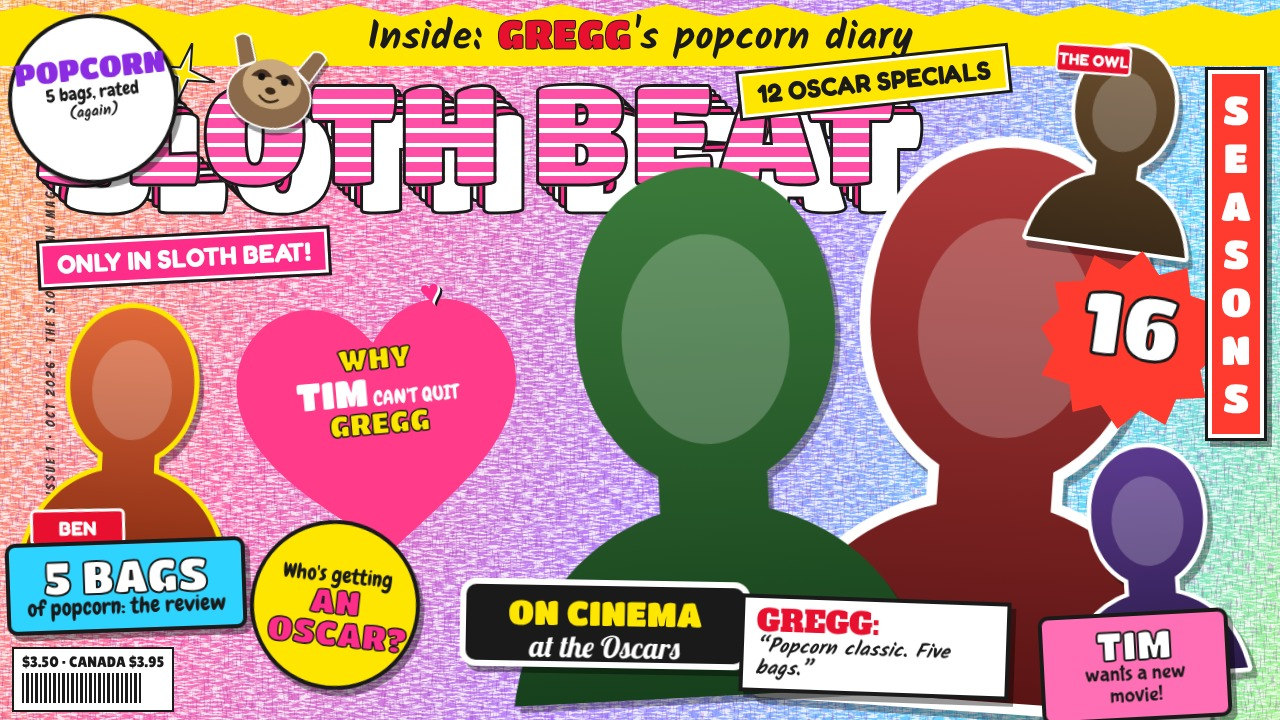
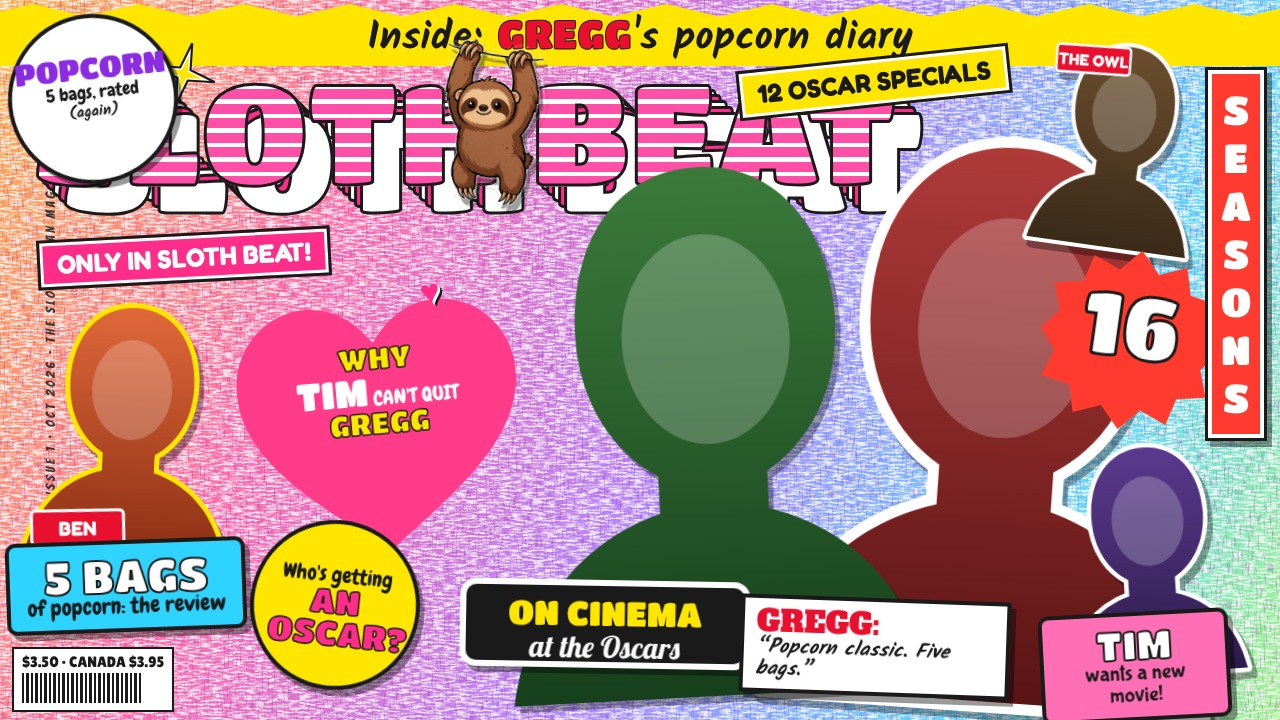
Sloth Beat v3: Runway sloth sticker in the masthead
Two Seedream variants cut out with Pillow (the cloud session could not fetch
the transparent PNGs); the first hangs between SLOTH and BEAT on all covers.

Claude-Session: https://claude.ai/code/session_019p8SwDYgnY8vbcMXRQhZJi

Changed region(s): [[0.3438, 0.0306, 0.4375, 0.3056], [0.1562, 0.0306, 0.2812, 0.1833]]

diff --git a/mockups/sloth_beat/02_ben_avery_v3.html b/mockups/sloth_beat/02_ben_avery_v3.html
@@ -2,11 +2,6 @@
 <link href="https://fonts.googleapis.com/css2?family=Titan+One&family=Bubblegum+Sans&family=Chewy&family=Bangers&family=Lilita+One&family=Fredoka:wght@700&family=Lobster&family=Kalam:wght@700&family=Alfa+Slab+One&display=swap" rel="stylesheet">
 <link rel="stylesheet" href="cover_v3.css"></head><body class="flat"><div class="cover"><div class="bg"><div class="rays"></div></div>
 <div class="spine">SLOTH BEAT &middot; ISSUE 1 &middot; OCT 2026 &middot; THE SLOWEST FAN MAG ON YOUTUBE</div>
-<div class="posters"><b>12</b> HUGE POSTERS!</div><div class="s star yellow" style="left:560px;top:-20px;transform:rotate(-10deg);width:130px;height:130px;padding:30px 10px;z-index:9"><b>NEW!</b></div><div class="mast"><span class="layer l0">SLOTH BEAT</span><span class="layer l1">SLOTH BEAT</span><span class="layer l2">SLOTH BEAT</span><span class="layer l3">SLOTH BEAT</span><span class="layer l4">SLOTH BEAT</span><span class="layer front">SLOTH BEAT</span><svg class="glint" viewBox="0 0 60 60"><path d="M30 0 L35 25 L60 30 L35 35 L30 60 L25 35 L0 30 L25 25 Z" fill="#fff" stroke="#1a1a1a" stroke-width="2"/><path d="M30 12 L33 27 L48 30 L33 33 L30 48 L27 33 L12 30 L27 27 Z" fill="#ffe600"/></svg></div><svg class="sloth" viewBox="0 0 200 170"><g stroke="#fff" stroke-width="6" stroke-linejoin="round" paint-order="stroke">
-<path d="M22 30 Q30 18 44 24 L62 60 L40 74 Z" fill="#8b6a4b"/><path d="M178 30 Q170 18 156 24 L138 60 L160 74 Z" fill="#8b6a4b"/>
-<ellipse cx="100" cy="112" rx="70" ry="54" fill="#8b6a4b"/><ellipse cx="100" cy="92" rx="50" ry="42" fill="#c9a97d" stroke="none"/>
-<path d="M62 86 q14-26 36-6 q-20 6-36 6z M138 86 q-14-26-36-6 q20 6 36 6z" fill="#4a3324" stroke="none"/>
-<circle cx="80" cy="84" r="6" fill="#111" stroke="none"/><circle cx="120" cy="84" r="6" fill="#111" stroke="none"/>
-<ellipse cx="100" cy="104" rx="9" ry="6" fill="#3a2718" stroke="none"/><path d="M84 116 q16 14 32 0" stroke="#3a2718" stroke-width="4" fill="none" stroke-linecap="round"/></g></svg><svg class="bust" style="left:90px;top:150px;width:470px;height:611px;transform:rotate(0deg);z-index:6" viewBox="0 0 200 260" overflow="visible"><defs><linearGradient id="g90150" x1="0" y1="0" x2="0" y2="1"><stop offset="0" stop-color="#e0683a"/><stop offset="1" stop-color="#8a2e14"/></linearGradient></defs><path d="M100 8 C62 8 38 40 38 84 C38 118 54 142 74 154 L74 172 C40 182 10 208 0 260 L200 260 C190 208 160 182 126 172 L126 154 C146 142 162 118 162 84 C162 40 138 8 100 8 Z" fill="url(#g90150)" stroke="" stroke-width="0" paint-order="stroke" stroke-linejoin="round"/><ellipse cx="100" cy="90" rx="40" ry="50" fill="rgba(255,255,255,.22)"/></svg><svg class="bust" style="left:700px;top:200px;width:240px;height:312px;transform:rotate(-3deg);z-index:7" viewBox="0 0 200 260" overflow="visible"><defs><linearGradient id="g700200" x1="0" y1="0" x2="0" y2="1"><stop offset="0" stop-color="#3b7a3b"/><stop offset="1" stop-color="#17401c"/></linearGradient></defs><path d="M100 8 C62 8 38 40 38 84 C38 118 54 142 74 154 L74 172 C40 182 10 208 0 260 L200 260 C190 208 160 182 126 172 L126 154 C146 142 162 118 162 84 C162 40 138 8 100 8 Z" fill="url(#g700200)" stroke="#fff" stroke-width="10" paint-order="stroke" stroke-linejoin="round"/><ellipse cx="100" cy="90" rx="40" ry="50" fill="rgba(255,255,255,.22)"/><g transform="translate(10 220) rotate(-4)"><rect x="-4" y="-4" width="92" height="34" rx="4" fill="#e8102e" stroke="#fff" stroke-width="3"/><text x="42" y="21" text-anchor="middle" font-family="Fredoka" font-weight="700" font-size="20" fill="#fff">GREGG</text></g></svg><svg class="bust" style="left:1050px;top:90px;width:230px;height:299px;transform:rotate(4deg);z-index:7" viewBox="0 0 200 260" overflow="visible"><defs><linearGradient id="g105090" x1="0" y1="0" x2="0" y2="1"><stop offset="0" stop-color="#b03a3a"/><stop offset="1" stop-color="#5a1414"/></linearGradient></defs><path d="M100 8 C62 8 38 40 38 84 C38 118 54 142 74 154 L74 172 C40 182 10 208 0 260 L200 260 C190 208 160 182 126 172 L126 154 C146 142 162 118 162 84 C162 40 138 8 100 8 Z" fill="url(#g105090)" stroke="#fff" stroke-width="10" paint-order="stroke" stroke-linejoin="round"/><ellipse cx="100" cy="90" rx="40" ry="50" fill="rgba(255,255,255,.22)"/></svg><svg class="bust" style="left:820px;top:455px;width:120px;height:156px;transform:rotate(-4deg);z-index:9" viewBox="0 0 200 260" overflow="visible"><defs><linearGradient id="g820455" x1="0" y1="0" x2="0" y2="1"><stop offset="0" stop-color="#b03a3a"/><stop offset="1" stop-color="#5a1414"/></linearGradient></defs><path d="M100 8 C62 8 38 40 38 84 C38 118 54 142 74 154 L74 172 C40 182 10 208 0 260 L200 260 C190 208 160 182 126 172 L126 154 C146 142 162 118 162 84 C162 40 138 8 100 8 Z" fill="url(#g820455)" stroke="#fff" stroke-width="10" paint-order="stroke" stroke-linejoin="round"/><ellipse cx="100" cy="90" rx="40" ry="50" fill="rgba(255,255,255,.22)"/><g transform="translate(10 20) rotate(-4)"><rect x="-4" y="-4" width="92" height="34" rx="4" fill="#e8102e" stroke="#fff" stroke-width="3"/><text x="42" y="21" text-anchor="middle" font-family="Fredoka" font-weight="700" font-size="20" fill="#fff">TIM</text></g></svg><svg class="bust" style="left:910px;top:455px;width:120px;height:156px;transform:rotate(4deg);z-index:9" viewBox="0 0 200 260" overflow="visible"><defs><linearGradient id="g910455" x1="0" y1="0" x2="0" y2="1"><stop offset="0" stop-color="#3b7a3b"/><stop offset="1" stop-color="#17401c"/></linearGradient></defs><path d="M100 8 C62 8 38 40 38 84 C38 118 54 142 74 154 L74 172 C40 182 10 208 0 260 L200 260 C190 208 160 182 126 172 L126 154 C146 142 162 118 162 84 C162 40 138 8 100 8 Z" fill="url(#g910455)" stroke="#fff" stroke-width="10" paint-order="stroke" stroke-linejoin="round"/><ellipse cx="100" cy="90" rx="40" ry="50" fill="rgba(255,255,255,.22)"/><g transform="translate(10 20) rotate(-4)"><rect x="-4" y="-4" width="92" height="34" rx="4" fill="#e8102e" stroke="#fff" stroke-width="3"/><text x="42" y="21" text-anchor="middle" font-family="Fredoka" font-weight="700" font-size="20" fill="#fff">GREGG</text></g></svg><svg class="bust" style="left:570px;top:470px;width:180px;height:234px;transform:rotate(2deg);z-index:7" viewBox="0 0 200 260" overflow="visible"><defs><linearGradient id="g570470" x1="0" y1="0" x2="0" y2="1"><stop offset="0" stop-color="#5b3a8e"/><stop offset="1" stop-color="#2b1b4a"/></linearGradient></defs><path d="M100 8 C62 8 38 40 38 84 C38 118 54 142 74 154 L74 172 C40 182 10 208 0 260 L200 260 C190 208 160 182 126 172 L126 154 C146 142 162 118 162 84 C162 40 138 8 100 8 Z" fill="url(#g570470)" stroke="#fff" stroke-width="10" paint-order="stroke" stroke-linejoin="round"/><ellipse cx="100" cy="90" rx="40" ry="50" fill="rgba(255,255,255,.22)"/><g transform="translate(10 220) rotate(-4)"><rect x="-4" y="-4" width="92" height="34" rx="4" fill="#e8102e" stroke="#fff" stroke-width="3"/><text x="42" y="21" text-anchor="middle" font-family="Fredoka" font-weight="700" font-size="20" fill="#fff">PAPA MEAT</text></g></svg><div class="label" style="left:1060px;top:300px;transform:rotate(3deg);width:150px;z-index:9"><b>TIM</b>wants a new look!</div><div class="s circle" style="left:830px;top:40px;transform:rotate(6deg)">Who's<br><b>GREGG</b><br>in love with?</div><div class="s panel" style="left:700px;top:290px;transform:rotate(-2deg);width:320px">POSTER<br>SPECIAL<div class='strip'><div style='background:#e0683a'>THE SHOW</div><div style='background:#3b7a3b'>ON CINEMA</div><div style='background:#5b3a8e'>PAPA MEAT</div></div></div><div class="s list" style="left:1030px;top:360px;transform:rotate(0deg);width:190px"><b>12 posters</b><span>BEN</span><span>GREGG</span><span>TIM</span><span>PAPA MEAT</span><span>A STUFFED OWL</span></div><div class="s star" style="left:980px;top:330px;transform:rotate(-10deg);width:110px;height:110px;padding:30px 10px;z-index:7"><b style='font-size:40px'>12</b></div><div class="s heart" style="left:10px;top:440px;transform:rotate(-6deg)"><b>HOW TO KNOW IF</b><span class='big'>BEN</span> IS FLIRTING<br>WITH <b>YOU!</b></div><div class="s window" style="left:240px;top:575px;transform:rotate(2deg);width:300px">THE SHOW CREW<small>dish best friend secrets</small></div><div class="s circle purple" style="left:1080px;top:560px;transform:rotate(-5deg);width:170px;height:170px;padding-top:34px"><b>OMG</b>did PAPA MEAT<br>get in a fight?</div><div class="s box blue" style="left:700px;top:600px;transform:rotate(2deg);width:330px">SNEAK BACKSTAGE with <b style='display:inline'>TIM &amp; GREGG</b> only in SLOTH BEAT!</div><div class="slug white" style="left:590px;top:236px;transform:rotate(-4deg);z-index:9">QUIZ: is BEN your type?</div><div class="slug purple" style="left:40px;top:650px;transform:rotate(-3deg);z-index:11">FREE STICKERS</div>
+<div class="posters"><b>12</b> HUGE POSTERS!</div><div class="s star yellow" style="left:560px;top:-20px;transform:rotate(-10deg);width:130px;height:130px;padding:30px 10px;z-index:9"><b>NEW!</b></div><div class="mast"><span class="layer l0">SLOTH BEAT</span><span class="layer l1">SLOTH BEAT</span><span class="layer l2">SLOTH BEAT</span><span class="layer l3">SLOTH BEAT</span><span class="layer l4">SLOTH BEAT</span><span class="layer front">SLOTH BEAT</span><svg class="glint" viewBox="0 0 60 60"><path d="M30 0 L35 25 L60 30 L35 35 L30 60 L25 35 L0 30 L25 25 Z" fill="#fff" stroke="#1a1a1a" stroke-width="2"/><path d="M30 12 L33 27 L48 30 L33 33 L30 48 L27 33 L12 30 L27 27 Z" fill="#ffe600"/></svg></div><img class="sloth" src="sloth_sticker.png"><svg class="bust" style="left:90px;top:150px;width:470px;height:611px;transform:rotate(0deg);z-index:6" viewBox="0 0 200 260" overflow="visible"><defs><linearGradient id="g90150" x1="0" y1="0" x2="0" y2="1"><stop offset="0" stop-color="#e0683a"/><stop offset="1" stop-color="#8a2e14"/></linearGradient></defs><path d="M100 8 C62 8 38 40 38 84 C38 118 54 142 74 154 L74 172 C40 182 10 208 0 260 L200 260 C190 208 160 182 126 172 L126 154 C146 142 162 118 162 84 C162 40 138 8 100 8 Z" fill="url(#g90150)" stroke="" stroke-width="0" paint-order="stroke" stroke-linejoin="round"/><ellipse cx="100" cy="90" rx="40" ry="50" fill="rgba(255,255,255,.22)"/></svg><svg class="bust" style="left:700px;top:200px;width:240px;height:312px;transform:rotate(-3deg);z-index:7" viewBox="0 0 200 260" overflow="visible"><defs><linearGradient id="g700200" x1="0" y1="0" x2="0" y2="1"><stop offset="0" stop-color="#3b7a3b"/><stop offset="1" stop-color="#17401c"/></linearGradient></defs><path d="M100 8 C62 8 38 40 38 84 C38 118 54 142 74 154 L74 172 C40 182 10 208 0 260 L200 260 C190 208 160 182 126 172 L126 154 C146 142 162 118 162 84 C162 40 138 8 100 8 Z" fill="url(#g700200)" stroke="#fff" stroke-width="10" paint-order="stroke" stroke-linejoin="round"/><ellipse cx="100" cy="90" rx="40" ry="50" fill="rgba(255,255,255,.22)"/><g transform="translate(10 220) rotate(-4)"><rect x="-4" y="-4" width="92" height="34" rx="4" fill="#e8102e" stroke="#fff" stroke-width="3"/><text x="42" y="21" text-anchor="middle" font-family="Fredoka" font-weight="700" font-size="20" fill="#fff">GREGG</text></g></svg><svg class="bust" style="left:1050px;top:90px;width:230px;height:299px;transform:rotate(4deg);z-index:7" viewBox="0 0 200 260" overflow="visible"><defs><linearGradient id="g105090" x1="0" y1="0" x2="0" y2="1"><stop offset="0" stop-color="#b03a3a"/><stop offset="1" stop-color="#5a1414"/></linearGradient></defs><path d="M100 8 C62 8 38 40 38 84 C38 118 54 142 74 154 L74 172 C40 182 10 208 0 260 L200 260 C190 208 160 182 126 172 L126 154 C146 142 162 118 162 84 C162 40 138 8 100 8 Z" fill="url(#g105090)" stroke="#fff" stroke-width="10" paint-order="stroke" stroke-linejoin="round"/><ellipse cx="100" cy="90" rx="40" ry="50" fill="rgba(255,255,255,.22)"/></svg><svg class="bust" style="left:820px;top:455px;width:120px;height:156px;transform:rotate(-4deg);z-index:9" viewBox="0 0 200 260" overflow="visible"><defs><linearGradient id="g820455" x1="0" y1="0" x2="0" y2="1"><stop offset="0" stop-color="#b03a3a"/><stop offset="1" stop-color="#5a1414"/></linearGradient></defs><path d="M100 8 C62 8 38 40 38 84 C38 118 54 142 74 154 L74 172 C40 182 10 208 0 260 L200 260 C190 208 160 182 126 172 L126 154 C146 142 162 118 162 84 C162 40 138 8 100 8 Z" fill="url(#g820455)" stroke="#fff" stroke-width="10" paint-order="stroke" stroke-linejoin="round"/><ellipse cx="100" cy="90" rx="40" ry="50" fill="rgba(255,255,255,.22)"/><g transform="translate(10 20) rotate(-4)"><rect x="-4" y="-4" width="92" height="34" rx="4" fill="#e8102e" stroke="#fff" stroke-width="3"/><text x="42" y="21" text-anchor="middle" font-family="Fredoka" font-weight="700" font-size="20" fill="#fff">TIM</text></g></svg><svg class="bust" style="left:910px;top:455px;width:120px;height:156px;transform:rotate(4deg);z-index:9" viewBox="0 0 200 260" overflow="visible"><defs><linearGradient id="g910455" x1="0" y1="0" x2="0" y2="1"><stop offset="0" stop-color="#3b7a3b"/><stop offset="1" stop-color="#17401c"/></linearGradient></defs><path d="M100 8 C62 8 38 40 38 84 C38 118 54 142 74 154 L74 172 C40 182 10 208 0 260 L200 260 C190 208 160 182 126 172 L126 154 C146 142 162 118 162 84 C162 40 138 8 100 8 Z" fill="url(#g910455)" stroke="#fff" stroke-width="10" paint-order="stroke" stroke-linejoin="round"/><ellipse cx="100" cy="90" rx="40" ry="50" fill="rgba(255,255,255,.22)"/><g transform="translate(10 20) rotate(-4)"><rect x="-4" y="-4" width="92" height="34" rx="4" fill="#e8102e" stroke="#fff" stroke-width="3"/><text x="42" y="21" text-anchor="middle" font-family="Fredoka" font-weight="700" font-size="20" fill="#fff">GREGG</text></g></svg><svg class="bust" style="left:570px;top:470px;width:180px;height:234px;transform:rotate(2deg);z-index:7" viewBox="0 0 200 260" overflow="visible"><defs><linearGradient id="g570470" x1="0" y1="0" x2="0" y2="1"><stop offset="0" stop-color="#5b3a8e"/><stop offset="1" stop-color="#2b1b4a"/></linearGradient></defs><path d="M100 8 C62 8 38 40 38 84 C38 118 54 142 74 154 L74 172 C40 182 10 208 0 260 L200 260 C190 208 160 182 126 172 L126 154 C146 142 162 118 162 84 C162 40 138 8 100 8 Z" fill="url(#g570470)" stroke="#fff" stroke-width="10" paint-order="stroke" stroke-linejoin="round"/><ellipse cx="100" cy="90" rx="40" ry="50" fill="rgba(255,255,255,.22)"/><g transform="translate(10 220) rotate(-4)"><rect x="-4" y="-4" width="92" height="34" rx="4" fill="#e8102e" stroke="#fff" stroke-width="3"/><text x="42" y="21" text-anchor="middle" font-family="Fredoka" font-weight="700" font-size="20" fill="#fff">PAPA MEAT</text></g></svg><div class="label" style="left:1060px;top:300px;transform:rotate(3deg);width:150px;z-index:9"><b>TIM</b>wants a new look!</div><div class="s circle" style="left:830px;top:40px;transform:rotate(6deg)">Who's<br><b>GREGG</b><br>in love with?</div><div class="s panel" style="left:700px;top:290px;transform:rotate(-2deg);width:320px">POSTER<br>SPECIAL<div class='strip'><div style='background:#e0683a'>THE SHOW</div><div style='background:#3b7a3b'>ON CINEMA</div><div style='background:#5b3a8e'>PAPA MEAT</div></div></div><div class="s list" style="left:1030px;top:360px;transform:rotate(0deg);width:190px"><b>12 posters</b><span>BEN</span><span>GREGG</span><span>TIM</span><span>PAPA MEAT</span><span>A STUFFED OWL</span></div><div class="s star" style="left:980px;top:330px;transform:rotate(-10deg);width:110px;height:110px;padding:30px 10px;z-index:7"><b style='font-size:40px'>12</b></div><div class="s heart" style="left:10px;top:440px;transform:rotate(-6deg)"><b>HOW TO KNOW IF</b><span class='big'>BEN</span> IS FLIRTING<br>WITH <b>YOU!</b></div><div class="s window" style="left:240px;top:575px;transform:rotate(2deg);width:300px">THE SHOW CREW<small>dish best friend secrets</small></div><div class="s circle purple" style="left:1080px;top:560px;transform:rotate(-5deg);width:170px;height:170px;padding-top:34px"><b>OMG</b>did PAPA MEAT<br>get in a fight?</div><div class="s box blue" style="left:700px;top:600px;transform:rotate(2deg);width:330px">SNEAK BACKSTAGE with <b style='display:inline'>TIM &amp; GREGG</b> only in SLOTH BEAT!</div><div class="slug white" style="left:590px;top:236px;transform:rotate(-4deg);z-index:9">QUIZ: is BEN your type?</div><div class="slug purple" style="left:40px;top:650px;transform:rotate(-3deg);z-index:11">FREE STICKERS</div>
 <div class="price">$3.50 &middot; CANADA $3.95<div class="barcode"></div></div>
 </div></body></html>

diff --git a/mockups/sloth_beat/01_papa_meat_v3.html b/mockups/sloth_beat/01_papa_meat_v3.html
@@ -4,11 +4,6 @@
 <filter id="sc2"><feTurbulence type="fractalNoise" baseFrequency="0.5 0.08" numOctaves="3" seed="11"/><feColorMatrix type="matrix" values="0 0 0 0 0.2  0 0 0 0 0  0 0 0 0 0.3  0 0 0 3 -1.5"/></filter>
 <rect width="100%" height="100%" filter="url(#sc1)"/><rect width="100%" height="100%" filter="url(#sc2)" opacity=".35"/></svg></div>
 <div class="spine">SLOTH BEAT &middot; ISSUE 1 &middot; OCT 2026 &middot; THE SLOWEST FAN MAG ON YOUTUBE</div>
-<div class="ribbon">The truth about <b>PAPA MEAT</b>'s obsession</div><div class="wcircle" style="left:8px;top:14px;transform:rotate(-6deg);z-index:9"><b>BEN AVERY</b>details<i>(since you asked)</i></div><div class="mast"><span class="layer l0">SLOTH BEAT</span><span class="layer l1">SLOTH BEAT</span><span class="layer l2">SLOTH BEAT</span><span class="layer l3">SLOTH BEAT</span><span class="layer l4">SLOTH BEAT</span><span class="layer front">SLOTH BEAT</span><svg class="glint" viewBox="0 0 60 60"><path d="M30 0 L35 25 L60 30 L35 35 L30 60 L25 35 L0 30 L25 25 Z" fill="#fff" stroke="#1a1a1a" stroke-width="2"/><path d="M30 12 L33 27 L48 30 L33 33 L30 48 L27 33 L12 30 L27 27 Z" fill="#ffe600"/></svg></div><svg class="sloth" viewBox="0 0 200 170"><g stroke="#fff" stroke-width="6" stroke-linejoin="round" paint-order="stroke">
-<path d="M22 30 Q30 18 44 24 L62 60 L40 74 Z" fill="#8b6a4b"/><path d="M178 30 Q170 18 156 24 L138 60 L160 74 Z" fill="#8b6a4b"/>
-<ellipse cx="100" cy="112" rx="70" ry="54" fill="#8b6a4b"/><ellipse cx="100" cy="92" rx="50" ry="42" fill="#c9a97d" stroke="none"/>
-<path d="M62 86 q14-26 36-6 q-20 6-36 6z M138 86 q-14-26-36-6 q20 6 36 6z" fill="#4a3324" stroke="none"/>
-<circle cx="80" cy="84" r="6" fill="#111" stroke="none"/><circle cx="120" cy="84" r="6" fill="#111" stroke="none"/>
-<ellipse cx="100" cy="104" rx="9" ry="6" fill="#3a2718" stroke="none"/><path d="M84 116 q16 14 32 0" stroke="#3a2718" stroke-width="4" fill="none" stroke-linecap="round"/></g></svg><svg class="bust" style="left:440px;top:130px;width:500px;height:650px;transform:rotate(0deg);z-index:6" viewBox="0 0 200 260" overflow="visible"><defs><linearGradient id="g440130" x1="0" y1="0" x2="0" y2="1"><stop offset="0" stop-color="#5b3a8e"/><stop offset="1" stop-color="#2b1b4a"/></linearGradient></defs><path d="M100 8 C62 8 38 40 38 84 C38 118 54 142 74 154 L74 172 C40 182 10 208 0 260 L200 260 C190 208 160 182 126 172 L126 154 C146 142 162 118 162 84 C162 40 138 8 100 8 Z" fill="url(#g440130)" stroke="" stroke-width="0" paint-order="stroke" stroke-linejoin="round"/><ellipse cx="100" cy="90" rx="40" ry="50" fill="rgba(255,255,255,.22)"/></svg><svg class="bust" style="left:1000px;top:40px;width:220px;height:286px;transform:rotate(4deg);z-index:7" viewBox="0 0 200 260" overflow="visible"><defs><linearGradient id="g100040" x1="0" y1="0" x2="0" y2="1"><stop offset="0" stop-color="#e0683a"/><stop offset="1" stop-color="#8a2e14"/></linearGradient></defs><path d="M100 8 C62 8 38 40 38 84 C38 118 54 142 74 154 L74 172 C40 182 10 208 0 260 L200 260 C190 208 160 182 126 172 L126 154 C146 142 162 118 162 84 C162 40 138 8 100 8 Z" fill="url(#g100040)" stroke="" stroke-width="0" paint-order="stroke" stroke-linejoin="round"/><ellipse cx="100" cy="90" rx="40" ry="50" fill="rgba(255,255,255,.22)"/><g transform="translate(10 220) rotate(-4)"><rect x="-4" y="-4" width="92" height="34" rx="4" fill="#e8102e" stroke="#fff" stroke-width="3"/><text x="42" y="21" text-anchor="middle" font-family="Fredoka" font-weight="700" font-size="20" fill="#fff">BEN</text></g></svg><svg class="bust" style="left:1070px;top:420px;width:190px;height:247px;transform:rotate(-5deg);z-index:7" viewBox="0 0 200 260" overflow="visible"><defs><linearGradient id="g1070420" x1="0" y1="0" x2="0" y2="1"><stop offset="0" stop-color="#3b7a3b"/><stop offset="1" stop-color="#17401c"/></linearGradient></defs><path d="M100 8 C62 8 38 40 38 84 C38 118 54 142 74 154 L74 172 C40 182 10 208 0 260 L200 260 C190 208 160 182 126 172 L126 154 C146 142 162 118 162 84 C162 40 138 8 100 8 Z" fill="url(#g1070420)" stroke="#ffe600" stroke-width="10" paint-order="stroke" stroke-linejoin="round"/><ellipse cx="100" cy="90" rx="40" ry="50" fill="rgba(255,255,255,.22)"/><g transform="translate(110 220) rotate(-4)"><rect x="-4" y="-4" width="92" height="34" rx="4" fill="#e8102e" stroke="#fff" stroke-width="3"/><text x="42" y="21" text-anchor="middle" font-family="Fredoka" font-weight="700" font-size="20" fill="#fff">GREGG</text></g></svg><svg class="bust" style="left:20px;top:300px;width:210px;height:273px;transform:rotate(3deg);z-index:7" viewBox="0 0 200 260" overflow="visible"><defs><linearGradient id="g20300" x1="0" y1="0" x2="0" y2="1"><stop offset="0" stop-color="#b03a3a"/><stop offset="1" stop-color="#5a1414"/></linearGradient></defs><path d="M100 8 C62 8 38 40 38 84 C38 118 54 142 74 154 L74 172 C40 182 10 208 0 260 L200 260 C190 208 160 182 126 172 L126 154 C146 142 162 118 162 84 C162 40 138 8 100 8 Z" fill="url(#g20300)" stroke="#fff" stroke-width="10" paint-order="stroke" stroke-linejoin="round"/><ellipse cx="100" cy="90" rx="40" ry="50" fill="rgba(255,255,255,.22)"/><g transform="translate(10 220) rotate(-4)"><rect x="-4" y="-4" width="92" height="34" rx="4" fill="#e8102e" stroke="#fff" stroke-width="3"/><text x="42" y="21" text-anchor="middle" font-family="Fredoka" font-weight="700" font-size="20" fill="#fff">TIM</text></g></svg><svg class="bust" style="left:890px;top:330px;width:120px;height:156px;transform:rotate(8deg);z-index:7" viewBox="0 0 200 260" overflow="visible"><defs><linearGradient id="g890330" x1="0" y1="0" x2="0" y2="1"><stop offset="0" stop-color="#6b4e2e"/><stop offset="1" stop-color="#3a2a18"/></linearGradient></defs><path d="M100 8 C62 8 38 40 38 84 C38 118 54 142 74 154 L74 172 C40 182 10 208 0 260 L200 260 C190 208 160 182 126 172 L126 154 C146 142 162 118 162 84 C162 40 138 8 100 8 Z" fill="url(#g890330)" stroke="#fff" stroke-width="10" paint-order="stroke" stroke-linejoin="round"/><ellipse cx="100" cy="90" rx="40" ry="50" fill="rgba(255,255,255,.22)"/><g transform="translate(10 20) rotate(-4)"><rect x="-4" y="-4" width="92" height="34" rx="4" fill="#e8102e" stroke="#fff" stroke-width="3"/><text x="42" y="21" text-anchor="middle" font-family="Fredoka" font-weight="700" font-size="20" fill="#fff">THE OWL</text></g></svg><div class="s tri" style="left:230px;top:290px;transform:rotate(-4deg)"><b>2</b><i>PAPA MEAT</i>centerfolds<br>plus pinup</div><div class="s box" style="left:985px;top:300px;transform:rotate(-3deg);width:250px">What gets<br><b>BEN'S</b>motor running?</div><div class="vert" style="left:1208px;top:395px">PINUPS</div><div class="s star" style="left:866px;top:196px;transform:rotate(8deg);width:150px;height:150px;padding:26px 16px"><b>22</b></div><div class="slug" style="left:40px;top:236px;transform:rotate(-3deg);z-index:9">ONLY IN SLOTH BEAT!</div><div class="s circle purple" style="left:275px;top:505px;transform:rotate(6deg);width:170px;height:170px;padding-top:34px"><b>QUIZ!</b>are you a<br>GREGG or a TIM?</div><div class="s box pink" style="left:6px;top:540px;transform:rotate(-2deg);width:236px"><b>TIM:</b><span class='q'>&ldquo;I look for films that are...&rdquo;</span></div><div class="s window" style="left:470px;top:560px;transform:rotate(1deg);width:290px">THE SHOW<small>at play</small><div class='row'><div class='m' style='background:#e0683a'></div><div class='m' style='background:#6b4e2e'></div><div class='m' style='background:#c9a97d'></div></div></div><div class="s box" style="left:960px;top:618px;transform:rotate(2deg);width:240px">What <b style='display:inline;font-size:32px'>GREGG</b> won't do for love</div><div class="hearts" style="left:1180px;top:596px;transform:rotate(-10deg)">&#9829;&#9829;</div><div class="label" style="left:860px;top:440px;transform:rotate(-4deg);width:140px;z-index:9"><b>THE OWL</b>wants a new perch!</div>
+<div class="ribbon">The truth about <b>PAPA MEAT</b>'s obsession</div><div class="wcircle" style="left:8px;top:14px;transform:rotate(-6deg);z-index:9"><b>BEN AVERY</b>details<i>(since you asked)</i></div><div class="mast"><span class="layer l0">SLOTH BEAT</span><span class="layer l1">SLOTH BEAT</span><span class="layer l2">SLOTH BEAT</span><span class="layer l3">SLOTH BEAT</span><span class="layer l4">SLOTH BEAT</span><span class="layer front">SLOTH BEAT</span><svg class="glint" viewBox="0 0 60 60"><path d="M30 0 L35 25 L60 30 L35 35 L30 60 L25 35 L0 30 L25 25 Z" fill="#fff" stroke="#1a1a1a" stroke-width="2"/><path d="M30 12 L33 27 L48 30 L33 33 L30 48 L27 33 L12 30 L27 27 Z" fill="#ffe600"/></svg></div><img class="sloth" src="sloth_sticker.png"><svg class="bust" style="left:440px;top:130px;width:500px;height:650px;transform:rotate(0deg);z-index:6" viewBox="0 0 200 260" overflow="visible"><defs><linearGradient id="g440130" x1="0" y1="0" x2="0" y2="1"><stop offset="0" stop-color="#5b3a8e"/><stop offset="1" stop-color="#2b1b4a"/></linearGradient></defs><path d="M100 8 C62 8 38 40 38 84 C38 118 54 142 74 154 L74 172 C40 182 10 208 0 260 L200 260 C190 208 160 182 126 172 L126 154 C146 142 162 118 162 84 C162 40 138 8 100 8 Z" fill="url(#g440130)" stroke="" stroke-width="0" paint-order="stroke" stroke-linejoin="round"/><ellipse cx="100" cy="90" rx="40" ry="50" fill="rgba(255,255,255,.22)"/></svg><svg class="bust" style="left:1000px;top:40px;width:220px;height:286px;transform:rotate(4deg);z-index:7" viewBox="0 0 200 260" overflow="visible"><defs><linearGradient id="g100040" x1="0" y1="0" x2="0" y2="1"><stop offset="0" stop-color="#e0683a"/><stop offset="1" stop-color="#8a2e14"/></linearGradient></defs><path d="M100 8 C62 8 38 40 38 84 C38 118 54 142 74 154 L74 172 C40 182 10 208 0 260 L200 260 C190 208 160 182 126 172 L126 154 C146 142 162 118 162 84 C162 40 138 8 100 8 Z" fill="url(#g100040)" stroke="" stroke-width="0" paint-order="stroke" stroke-linejoin="round"/><ellipse cx="100" cy="90" rx="40" ry="50" fill="rgba(255,255,255,.22)"/><g transform="translate(10 220) rotate(-4)"><rect x="-4" y="-4" width="92" height="34" rx="4" fill="#e8102e" stroke="#fff" stroke-width="3"/><text x="42" y="21" text-anchor="middle" font-family="Fredoka" font-weight="700" font-size="20" fill="#fff">BEN</text></g></svg><svg class="bust" style="left:1070px;top:420px;width:190px;height:247px;transform:rotate(-5deg);z-index:7" viewBox="0 0 200 260" overflow="visible"><defs><linearGradient id="g1070420" x1="0" y1="0" x2="0" y2="1"><stop offset="0" stop-color="#3b7a3b"/><stop offset="1" stop-color="#17401c"/></linearGradient></defs><path d="M100 8 C62 8 38 40 38 84 C38 118 54 142 74 154 L74 172 C40 182 10 208 0 260 L200 260 C190 208 160 182 126 172 L126 154 C146 142 162 118 162 84 C162 40 138 8 100 8 Z" fill="url(#g1070420)" stroke="#ffe600" stroke-width="10" paint-order="stroke" stroke-linejoin="round"/><ellipse cx="100" cy="90" rx="40" ry="50" fill="rgba(255,255,255,.22)"/><g transform="translate(110 220) rotate(-4)"><rect x="-4" y="-4" width="92" height="34" rx="4" fill="#e8102e" stroke="#fff" stroke-width="3"/><text x="42" y="21" text-anchor="middle" font-family="Fredoka" font-weight="700" font-size="20" fill="#fff">GREGG</text></g></svg><svg class="bust" style="left:20px;top:300px;width:210px;height:273px;transform:rotate(3deg);z-index:7" viewBox="0 0 200 260" overflow="visible"><defs><linearGradient id="g20300" x1="0" y1="0" x2="0" y2="1"><stop offset="0" stop-color="#b03a3a"/><stop offset="1" stop-color="#5a1414"/></linearGradient></defs><path d="M100 8 C62 8 38 40 38 84 C38 118 54 142 74 154 L74 172 C40 182 10 208 0 260 L200 260 C190 208 160 182 126 172 L126 154 C146 142 162 118 162 84 C162 40 138 8 100 8 Z" fill="url(#g20300)" stroke="#fff" stroke-width="10" paint-order="stroke" stroke-linejoin="round"/><ellipse cx="100" cy="90" rx="40" ry="50" fill="rgba(255,255,255,.22)"/><g transform="translate(10 220) rotate(-4)"><rect x="-4" y="-4" width="92" height="34" rx="4" fill="#e8102e" stroke="#fff" stroke-width="3"/><text x="42" y="21" text-anchor="middle" font-family="Fredoka" font-weight="700" font-size="20" fill="#fff">TIM</text></g></svg><svg class="bust" style="left:890px;top:330px;width:120px;height:156px;transform:rotate(8deg);z-index:7" viewBox="0 0 200 260" overflow="visible"><defs><linearGradient id="g890330" x1="0" y1="0" x2="0" y2="1"><stop offset="0" stop-color="#6b4e2e"/><stop offset="1" stop-color="#3a2a18"/></linearGradient></defs><path d="M100 8 C62 8 38 40 38 84 C38 118 54 142 74 154 L74 172 C40 182 10 208 0 260 L200 260 C190 208 160 182 126 172 L126 154 C146 142 162 118 162 84 C162 40 138 8 100 8 Z" fill="url(#g890330)" stroke="#fff" stroke-width="10" paint-order="stroke" stroke-linejoin="round"/><ellipse cx="100" cy="90" rx="40" ry="50" fill="rgba(255,255,255,.22)"/><g transform="translate(10 20) rotate(-4)"><rect x="-4" y="-4" width="92" height="34" rx="4" fill="#e8102e" stroke="#fff" stroke-width="3"/><text x="42" y="21" text-anchor="middle" font-family="Fredoka" font-weight="700" font-size="20" fill="#fff">THE OWL</text></g></svg><div class="s tri" style="left:230px;top:290px;transform:rotate(-4deg)"><b>2</b><i>PAPA MEAT</i>centerfolds<br>plus pinup</div><div class="s box" style="left:985px;top:300px;transform:rotate(-3deg);width:250px">What gets<br><b>BEN'S</b>motor running?</div><div class="vert" style="left:1208px;top:395px">PINUPS</div><div class="s star" style="left:866px;top:196px;transform:rotate(8deg);width:150px;height:150px;padding:26px 16px"><b>22</b></div><div class="slug" style="left:40px;top:236px;transform:rotate(-3deg);z-index:9">ONLY IN SLOTH BEAT!</div><div class="s circle purple" style="left:275px;top:505px;transform:rotate(6deg);width:170px;height:170px;padding-top:34px"><b>QUIZ!</b>are you a<br>GREGG or a TIM?</div><div class="s box pink" style="left:6px;top:540px;transform:rotate(-2deg);width:236px"><b>TIM:</b><span class='q'>&ldquo;I look for films that are...&rdquo;</span></div><div class="s window" style="left:470px;top:560px;transform:rotate(1deg);width:290px">THE SHOW<small>at play</small><div class='row'><div class='m' style='background:#e0683a'></div><div class='m' style='background:#6b4e2e'></div><div class='m' style='background:#c9a97d'></div></div></div><div class="s box" style="left:960px;top:618px;transform:rotate(2deg);width:240px">What <b style='display:inline;font-size:32px'>GREGG</b> won't do for love</div><div class="hearts" style="left:1180px;top:596px;transform:rotate(-10deg)">&#9829;&#9829;</div><div class="label" style="left:860px;top:440px;transform:rotate(-4deg);width:140px;z-index:9"><b>THE OWL</b>wants a new perch!</div>
 <div class="price">$3.50 &middot; CANADA $3.95<div class="barcode"></div></div>
 </div></body></html>

diff --git a/mockups/sloth_beat/03_on_cinema_v3.html b/mockups/sloth_beat/03_on_cinema_v3.html
@@ -4,11 +4,6 @@
 <filter id="sc2"><feTurbulence type="fractalNoise" baseFrequency="0.5 0.08" numOctaves="3" seed="11"/><feColorMatrix type="matrix" values="0 0 0 0 0.2  0 0 0 0 0  0 0 0 0 0.3  0 0 0 3 -1.5"/></filter>
 <rect width="100%" height="100%" filter="url(#sc1)"/><rect width="100%" height="100%" filter="url(#sc2)" opacity=".35"/></svg></div>
 <div class="spine">SLOTH BEAT &middot; ISSUE 1 &middot; OCT 2026 &middot; THE SLOWEST FAN MAG ON YOUTUBE</div>
-<div class="ribbon">Inside: <b>GREGG</b>'s popcorn diary</div><div class="wcircle" style="left:8px;top:14px;transform:rotate(-6deg);z-index:9"><b>POPCORN</b>5 bags, rated<i>(again)</i></div><div class="mast"><span class="layer l0">SLOTH BEAT</span><span class="layer l1">SLOTH BEAT</span><span class="layer l2">SLOTH BEAT</span><span class="layer l3">SLOTH BEAT</span><span class="layer l4">SLOTH BEAT</span><span class="layer front">SLOTH BEAT</span><svg class="glint" viewBox="0 0 60 60"><path d="M30 0 L35 25 L60 30 L35 35 L30 60 L25 35 L0 30 L25 25 Z" fill="#fff" stroke="#1a1a1a" stroke-width="2"/><path d="M30 12 L33 27 L48 30 L33 33 L30 48 L27 33 L12 30 L27 27 Z" fill="#ffe600"/></svg></div><svg class="sloth" viewBox="0 0 200 170"><g stroke="#fff" stroke-width="6" stroke-linejoin="round" paint-order="stroke">
-<path d="M22 30 Q30 18 44 24 L62 60 L40 74 Z" fill="#8b6a4b"/><path d="M178 30 Q170 18 156 24 L138 60 L160 74 Z" fill="#8b6a4b"/>
-<ellipse cx="100" cy="112" rx="70" ry="54" fill="#8b6a4b"/><ellipse cx="100" cy="92" rx="50" ry="42" fill="#c9a97d" stroke="none"/>
-<path d="M62 86 q14-26 36-6 q-20 6-36 6z M138 86 q-14-26-36-6 q20 6 36 6z" fill="#4a3324" stroke="none"/>
-<circle cx="80" cy="84" r="6" fill="#111" stroke="none"/><circle cx="120" cy="84" r="6" fill="#111" stroke="none"/>
-<ellipse cx="100" cy="104" rx="9" ry="6" fill="#3a2718" stroke="none"/><path d="M84 116 q16 14 32 0" stroke="#3a2718" stroke-width="4" fill="none" stroke-linecap="round"/></g></svg><svg class="bust" style="left:500px;top:150px;width:420px;height:546px;transform:rotate(-3deg);z-index:6" viewBox="0 0 200 260" overflow="visible"><defs><linearGradient id="g500150" x1="0" y1="0" x2="0" y2="1"><stop offset="0" stop-color="#3b7a3b"/><stop offset="1" stop-color="#17401c"/></linearGradient></defs><path d="M100 8 C62 8 38 40 38 84 C38 118 54 142 74 154 L74 172 C40 182 10 208 0 260 L200 260 C190 208 160 182 126 172 L126 154 C146 142 162 118 162 84 C162 40 138 8 100 8 Z" fill="url(#g500150)" stroke="" stroke-width="0" paint-order="stroke" stroke-linejoin="round"/><ellipse cx="100" cy="90" rx="40" ry="50" fill="rgba(255,255,255,.22)"/></svg><svg class="bust" style="left:780px;top:130px;width:440px;height:572px;transform:rotate(4deg);z-index:5" viewBox="0 0 200 260" overflow="visible"><defs><linearGradient id="g780130" x1="0" y1="0" x2="0" y2="1"><stop offset="0" stop-color="#b03a3a"/><stop offset="1" stop-color="#5a1414"/></linearGradient></defs><path d="M100 8 C62 8 38 40 38 84 C38 118 54 142 74 154 L74 172 C40 182 10 208 0 260 L200 260 C190 208 160 182 126 172 L126 154 C146 142 162 118 162 84 C162 40 138 8 100 8 Z" fill="url(#g780130)" stroke="#fff" stroke-width="10" paint-order="stroke" stroke-linejoin="round"/><ellipse cx="100" cy="90" rx="40" ry="50" fill="rgba(255,255,255,.22)"/></svg><svg class="bust" style="left:30px;top:300px;width:200px;height:260px;transform:rotate(3deg);z-index:7" viewBox="0 0 200 260" overflow="visible"><defs><linearGradient id="g30300" x1="0" y1="0" x2="0" y2="1"><stop offset="0" stop-color="#e0683a"/><stop offset="1" stop-color="#8a2e14"/></linearGradient></defs><path d="M100 8 C62 8 38 40 38 84 C38 118 54 142 74 154 L74 172 C40 182 10 208 0 260 L200 260 C190 208 160 182 126 172 L126 154 C146 142 162 118 162 84 C162 40 138 8 100 8 Z" fill="url(#g30300)" stroke="#ffe600" stroke-width="10" paint-order="stroke" stroke-linejoin="round"/><ellipse cx="100" cy="90" rx="40" ry="50" fill="rgba(255,255,255,.22)"/><g transform="translate(10 220) rotate(-4)"><rect x="-4" y="-4" width="92" height="34" rx="4" fill="#e8102e" stroke="#fff" stroke-width="3"/><text x="42" y="21" text-anchor="middle" font-family="Fredoka" font-weight="700" font-size="20" fill="#fff">BEN</text></g></svg><svg class="bust" style="left:1060px;top:440px;width:180px;height:234px;transform:rotate(-4deg);z-index:7" viewBox="0 0 200 260" overflow="visible"><defs><linearGradient id="g1060440" x1="0" y1="0" x2="0" y2="1"><stop offset="0" stop-color="#5b3a8e"/><stop offset="1" stop-color="#2b1b4a"/></linearGradient></defs><path d="M100 8 C62 8 38 40 38 84 C38 118 54 142 74 154 L74 172 C40 182 10 208 0 260 L200 260 C190 208 160 182 126 172 L126 154 C146 142 162 118 162 84 C162 40 138 8 100 8 Z" fill="url(#g1060440)" stroke="#fff" stroke-width="10" paint-order="stroke" stroke-linejoin="round"/><ellipse cx="100" cy="90" rx="40" ry="50" fill="rgba(255,255,255,.22)"/><g transform="translate(10 220) rotate(-4)"><rect x="-4" y="-4" width="92" height="34" rx="4" fill="#e8102e" stroke="#fff" stroke-width="3"/><text x="42" y="21" text-anchor="middle" font-family="Fredoka" font-weight="700" font-size="20" fill="#fff">PAPA MEAT</text></g></svg><svg class="bust" style="left:1040px;top:40px;width:160px;height:208px;transform:rotate(8deg);z-index:7" viewBox="0 0 200 260" overflow="visible"><defs><linearGradient id="g104040" x1="0" y1="0" x2="0" y2="1"><stop offset="0" stop-color="#6b4e2e"/><stop offset="1" stop-color="#3a2a18"/></linearGradient></defs><path d="M100 8 C62 8 38 40 38 84 C38 118 54 142 74 154 L74 172 C40 182 10 208 0 260 L200 260 C190 208 160 182 126 172 L126 154 C146 142 162 118 162 84 C162 40 138 8 100 8 Z" fill="url(#g104040)" stroke="#fff" stroke-width="10" paint-order="stroke" stroke-linejoin="round"/><ellipse cx="100" cy="90" rx="40" ry="50" fill="rgba(255,255,255,.22)"/><g transform="translate(10 20) rotate(-4)"><rect x="-4" y="-4" width="92" height="34" rx="4" fill="#e8102e" stroke="#fff" stroke-width="3"/><text x="42" y="21" text-anchor="middle" font-family="Fredoka" font-weight="700" font-size="20" fill="#fff">THE OWL</text></g></svg><div class="s heart" style="left:230px;top:290px;transform:rotate(-5deg)"><b>WHY</b><span class='big'>TIM</span> CAN'T QUIT<br><b>GREGG</b></div><div class="s star" style="left:1040px;top:250px;transform:rotate(8deg);width:180px;height:180px;padding:34px 20px"><b>16</b></div><div class="vert" style="left:1208px;top:70px">SEASONS</div><div class="slug" style="left:40px;top:236px;transform:rotate(-3deg);z-index:9">ONLY IN SLOTH BEAT!</div><div class="s circle" style="left:250px;top:520px;transform:rotate(6deg);width:170px;height:170px;padding-top:40px">Who's getting<br><b>AN OSCAR?</b></div><div class="s box" style="left:6px;top:540px;transform:rotate(-2deg);width:240px"><b>5 BAGS</b>of popcorn: the review</div><div class="s window" style="left:460px;top:580px;transform:rotate(1deg);width:290px">ON CINEMA<small>at the Oscars</small></div><div class="s quote" style="left:740px;top:598px;transform:rotate(2deg);width:270px"><b>GREGG:</b>&ldquo;Popcorn classic. Five bags.&rdquo;</div><div class="s box pink" style="left:1040px;top:612px;transform:rotate(-3deg);width:190px"><b>TIM</b>wants a new movie!</div><div class="slug yellow" style="left:740px;top:60px;transform:rotate(-6deg);z-index:9">12 OSCAR SPECIALS</div><div class="hearts" style="left:420px;top:270px;transform:rotate(-10deg)">&#9829;</div>
+<div class="ribbon">Inside: <b>GREGG</b>'s popcorn diary</div><div class="wcircle" style="left:8px;top:14px;transform:rotate(-6deg);z-index:9"><b>POPCORN</b>5 bags, rated<i>(again)</i></div><div class="mast"><span class="layer l0">SLOTH BEAT</span><span class="layer l1">SLOTH BEAT</span><span class="layer l2">SLOTH BEAT</span><span class="layer l3">SLOTH BEAT</span><span class="layer l4">SLOTH BEAT</span><span class="layer front">SLOTH BEAT</span><svg class="glint" viewBox="0 0 60 60"><path d="M30 0 L35 25 L60 30 L35 35 L30 60 L25 35 L0 30 L25 25 Z" fill="#fff" stroke="#1a1a1a" stroke-width="2"/><path d="M30 12 L33 27 L48 30 L33 33 L30 48 L27 33 L12 30 L27 27 Z" fill="#ffe600"/></svg></div><img class="sloth" src="sloth_sticker.png"><svg class="bust" style="left:500px;top:150px;width:420px;height:546px;transform:rotate(-3deg);z-index:6" viewBox="0 0 200 260" overflow="visible"><defs><linearGradient id="g500150" x1="0" y1="0" x2="0" y2="1"><stop offset="0" stop-color="#3b7a3b"/><stop offset="1" stop-color="#17401c"/></linearGradient></defs><path d="M100 8 C62 8 38 40 38 84 C38 118 54 142 74 154 L74 172 C40 182 10 208 0 260 L200 260 C190 208 160 182 126 172 L126 154 C146 142 162 118 162 84 C162 40 138 8 100 8 Z" fill="url(#g500150)" stroke="" stroke-width="0" paint-order="stroke" stroke-linejoin="round"/><ellipse cx="100" cy="90" rx="40" ry="50" fill="rgba(255,255,255,.22)"/></svg><svg class="bust" style="left:780px;top:130px;width:440px;height:572px;transform:rotate(4deg);z-index:5" viewBox="0 0 200 260" overflow="visible"><defs><linearGradient id="g780130" x1="0" y1="0" x2="0" y2="1"><stop offset="0" stop-color="#b03a3a"/><stop offset="1" stop-color="#5a1414"/></linearGradient></defs><path d="M100 8 C62 8 38 40 38 84 C38 118 54 142 74 154 L74 172 C40 182 10 208 0 260 L200 260 C190 208 160 182 126 172 L126 154 C146 142 162 118 162 84 C162 40 138 8 100 8 Z" fill="url(#g780130)" stroke="#fff" stroke-width="10" paint-order="stroke" stroke-linejoin="round"/><ellipse cx="100" cy="90" rx="40" ry="50" fill="rgba(255,255,255,.22)"/></svg><svg class="bust" style="left:30px;top:300px;width:200px;height:260px;transform:rotate(3deg);z-index:7" viewBox="0 0 200 260" overflow="visible"><defs><linearGradient id="g30300" x1="0" y1="0" x2="0" y2="1"><stop offset="0" stop-color="#e0683a"/><stop offset="1" stop-color="#8a2e14"/></linearGradient></defs><path d="M100 8 C62 8 38 40 38 84 C38 118 54 142 74 154 L74 172 C40 182 10 208 0 260 L200 260 C190 208 160 182 126 172 L126 154 C146 142 162 118 162 84 C162 40 138 8 100 8 Z" fill="url(#g30300)" stroke="#ffe600" stroke-width="10" paint-order="stroke" stroke-linejoin="round"/><ellipse cx="100" cy="90" rx="40" ry="50" fill="rgba(255,255,255,.22)"/><g transform="translate(10 220) rotate(-4)"><rect x="-4" y="-4" width="92" height="34" rx="4" fill="#e8102e" stroke="#fff" stroke-width="3"/><text x="42" y="21" text-anchor="middle" font-family="Fredoka" font-weight="700" font-size="20" fill="#fff">BEN</text></g></svg><svg class="bust" style="left:1060px;top:440px;width:180px;height:234px;transform:rotate(-4deg);z-index:7" viewBox="0 0 200 260" overflow="visible"><defs><linearGradient id="g1060440" x1="0" y1="0" x2="0" y2="1"><stop offset="0" stop-color="#5b3a8e"/><stop offset="1" stop-color="#2b1b4a"/></linearGradient></defs><path d="M100 8 C62 8 38 40 38 84 C38 118 54 142 74 154 L74 172 C40 182 10 208 0 260 L200 260 C190 208 160 182 126 172 L126 154 C146 142 162 118 162 84 C162 40 138 8 100 8 Z" fill="url(#g1060440)" stroke="#fff" stroke-width="10" paint-order="stroke" stroke-linejoin="round"/><ellipse cx="100" cy="90" rx="40" ry="50" fill="rgba(255,255,255,.22)"/><g transform="translate(10 220) rotate(-4)"><rect x="-4" y="-4" width="92" height="34" rx="4" fill="#e8102e" stroke="#fff" stroke-width="3"/><text x="42" y="21" text-anchor="middle" font-family="Fredoka" font-weight="700" font-size="20" fill="#fff">PAPA MEAT</text></g></svg><svg class="bust" style="left:1040px;top:40px;width:160px;height:208px;transform:rotate(8deg);z-index:7" viewBox="0 0 200 260" overflow="visible"><defs><linearGradient id="g104040" x1="0" y1="0" x2="0" y2="1"><stop offset="0" stop-color="#6b4e2e"/><stop offset="1" stop-color="#3a2a18"/></linearGradient></defs><path d="M100 8 C62 8 38 40 38 84 C38 118 54 142 74 154 L74 172 C40 182 10 208 0 260 L200 260 C190 208 160 182 126 172 L126 154 C146 142 162 118 162 84 C162 40 138 8 100 8 Z" fill="url(#g104040)" stroke="#fff" stroke-width="10" paint-order="stroke" stroke-linejoin="round"/><ellipse cx="100" cy="90" rx="40" ry="50" fill="rgba(255,255,255,.22)"/><g transform="translate(10 20) rotate(-4)"><rect x="-4" y="-4" width="92" height="34" rx="4" fill="#e8102e" stroke="#fff" stroke-width="3"/><text x="42" y="21" text-anchor="middle" font-family="Fredoka" font-weight="700" font-size="20" fill="#fff">THE OWL</text></g></svg><div class="s heart" style="left:230px;top:290px;transform:rotate(-5deg)"><b>WHY</b><span class='big'>TIM</span> CAN'T QUIT<br><b>GREGG</b></div><div class="s star" style="left:1040px;top:250px;transform:rotate(8deg);width:180px;height:180px;padding:34px 20px"><b>16</b></div><div class="vert" style="left:1208px;top:70px">SEASONS</div><div class="slug" style="left:40px;top:236px;transform:rotate(-3deg);z-index:9">ONLY IN SLOTH BEAT!</div><div class="s circle" style="left:250px;top:520px;transform:rotate(6deg);width:170px;height:170px;padding-top:40px">Who's getting<br><b>AN OSCAR?</b></div><div class="s box" style="left:6px;top:540px;transform:rotate(-2deg);width:240px"><b>5 BAGS</b>of popcorn: the review</div><div class="s window" style="left:460px;top:580px;transform:rotate(1deg);width:290px">ON CINEMA<small>at the Oscars</small></div><div class="s quote" style="left:740px;top:598px;transform:rotate(2deg);width:270px"><b>GREGG:</b>&ldquo;Popcorn classic. Five bags.&rdquo;</div><div class="s box pink" style="left:1040px;top:612px;transform:rotate(-3deg);width:190px"><b>TIM</b>wants a new movie!</div><div class="slug yellow" style="left:740px;top:60px;transform:rotate(-6deg);z-index:9">12 OSCAR SPECIALS</div><div class="hearts" style="left:420px;top:270px;transform:rotate(-10deg)">&#9829;</div>
 <div class="price">$3.50 &middot; CANADA $3.95<div class="barcode"></div></div>
 </div></body></html>

diff --git a/mockups/sloth_beat/cover_v3.css b/mockups/sloth_beat/cover_v3.css
@@ -34,7 +34,7 @@ body.flat .bg{background:#2ec4ea}
 .mast .front{background:repeating-linear-gradient(180deg,#ff4fa6 0 10px,#fff 10px 15px,#ff4fa6 15px 25px,#fff 25px 29px);-webkit-background-clip:text;background-clip:text;-webkit-text-fill-color:transparent}
 .glint{position:absolute;width:64px;left:118px;top:-18px;transform:rotate(15deg)}
 .sloth{left:214px;top:30px;width:118px;z-index:7;transform:rotate(14deg);filter:drop-shadow(3px 5px 0 rgba(0,0,0,.4))}
-img.sloth{width:150px;left:200px;top:8px}
+img.sloth{width:104px;height:auto;left:438px;top:38px;transform:rotate(5deg);filter:drop-shadow(0 0 0 #fff) drop-shadow(0 0 1px #fff) drop-shadow(4px 6px 0 rgba(0,0,0,.4))}
 /* cutouts */
 .bust{filter:drop-shadow(5px 7px 0 rgba(0,0,0,.35))}
 /* shapes */

diff --git a/mockups/sloth_beat/README.md b/mockups/sloth_beat/README.md
@@ -34,7 +34,12 @@ shoulders, a starburst sits on a face's edge. New over v2:
   the number, hearts, the barcode rotated onto the right edge on the flat cover.
 - The tagline is gone from the face of the cover; it lives in tiny spine text on the left edge.
 - Heavier crayon scribble (two turbulence layers, one light, one dark) on the two crayon covers.
-Fonts added: Titan One (masthead), Fredoka (name bars, slugs), Kalam (ribbon, quotes), Lobster
+**Mascot:** `sloth_sticker.png` is a Runway image (Seedream 5 Pro, prompt in HANDOFF, task
+1b5e5334-57ab-42f2-9026-c51ad30d8b1d), cut out of the tool's JPEG preview with Pillow because the
+cloud session could not fetch the transparent PNG; `sloth_sticker_b.png` is the second variant
+(task 4d759bc7-5165-4588-a932-9d3b4374752b, on a branch with leaves). Both are cute-kawaii rather
+than the 1990s flat-mascot look; a proper mascot pass (poses, a Sloth Beat badge, less kawaii) is
+still to do. Fonts added: Titan One (masthead), Fredoka (name bars, slugs), Kalam (ribbon, quotes), Lobster
 (window subtitles), Alfa Slab One (quote card), Bubblegum Sans, Chewy.
 
 ## v2: the Bop references (user sent two Bop covers, July 1995 and ~2007)
